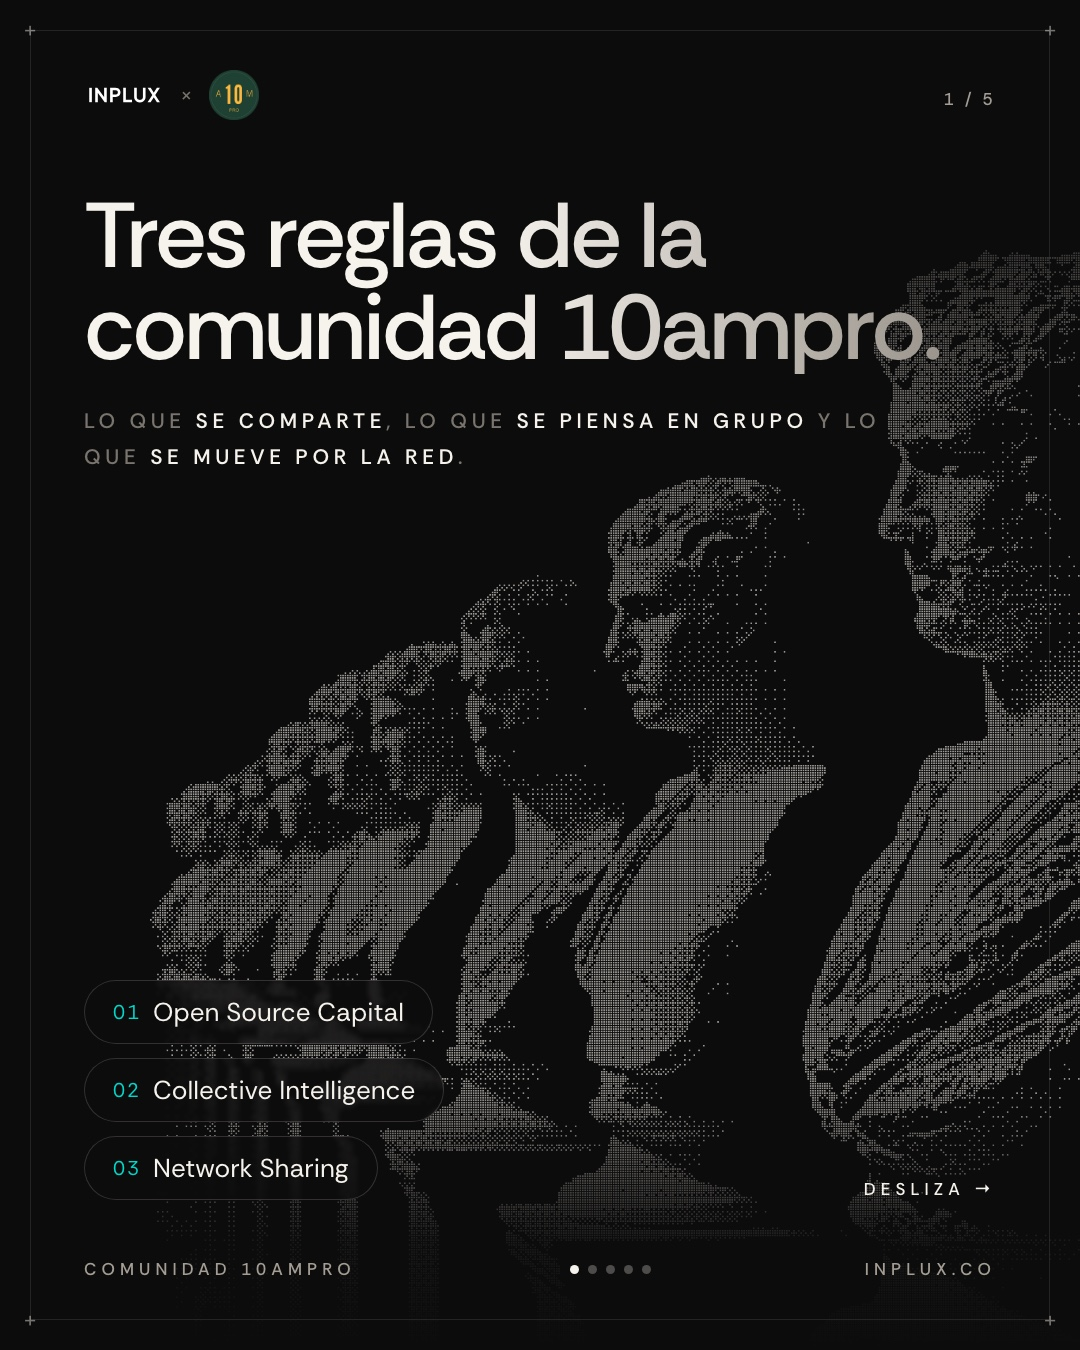
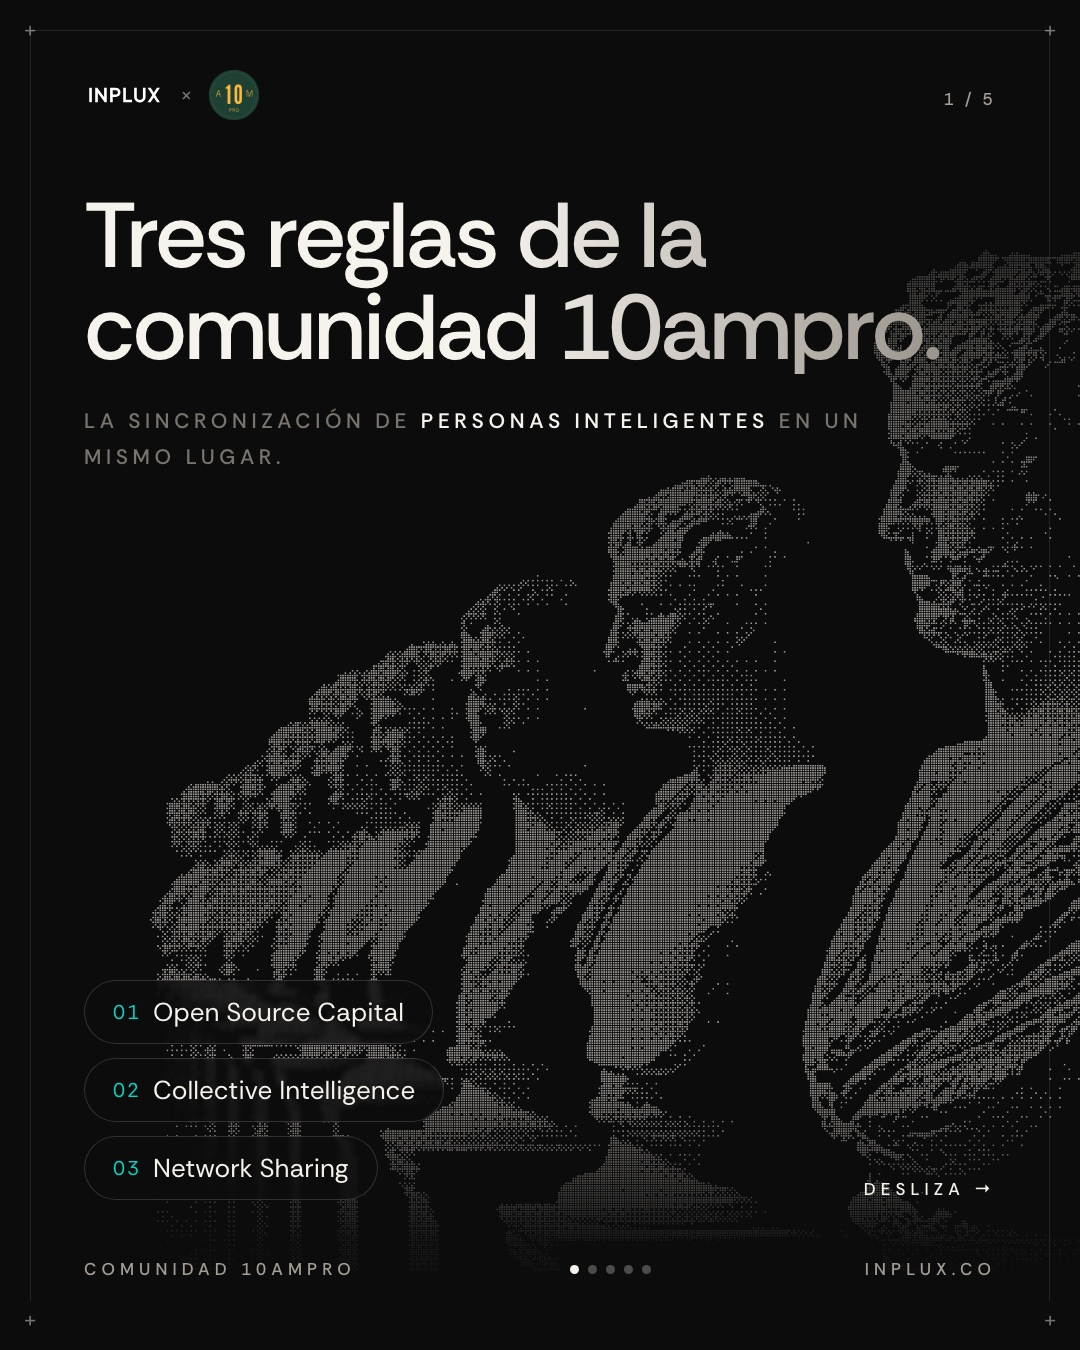
copy(instagram): subtítulo de portada = la sincronización de personas inteligentes en un mismo lugar

Changed region(s): [[0.0917, 0.28, 0.4278, 0.3422], [0.4583, 0.3111, 0.6111, 0.3422], [0.6417, 0.3111, 0.6722, 0.3422]]

diff --git a/brand/instagram/dia-d-reglas/reglas10am_01_portada.html b/brand/instagram/dia-d-reglas/reglas10am_01_portada.html
@@ -25,7 +25,7 @@ body{font-family:"Rethink Sans",sans-serif;color:#f6f2ec;-webkit-font-smoothing:
 .tarjeta{background:#f6f2ec;color:#0c0c0b;border-radius:14px;display:flex;justify-content:space-between;align-items:center;padding:30px 36px}
 </style></head><body><div class="lienzo"><img class="trama" src="trama/galeria.png" style="left:150px;top:250px;width:1250px;opacity:0.6;-webkit-mask-image:none;mask-image:none"><div style="position:absolute;inset:0;background:linear-gradient(180deg,#0c0c0b 0%,rgba(12,12,11,.85) 14%,rgba(12,12,11,.25) 30%,transparent 45%,transparent 80%,rgba(12,12,11,.9) 92%,#0c0c0b 100%)"></div><div style="position:absolute;left:84px;right:84px;top:190px">
   <h1 class="titular" style="font-size:92px">Tres reglas de la<br>comunidad 10ampro.</h1>
-  <p class="sub" style="margin-top:30px;max-width:860px">Lo que <b>se comparte</b>, lo que <b>se piensa en grupo</b> y lo que <b>se mueve por la red</b>.</p>
+  <p class="sub" style="margin-top:30px;max-width:860px">La sincronización de <b>personas inteligentes</b> en un mismo lugar.</p>
 </div>
 <div style="position:absolute;left:84px;bottom:150px;display:flex;flex-direction:column;gap:14px;align-items:flex-start">
   <span class="pill oscura"><span style="color:#00d7ca;font-size:20px;letter-spacing:.1em">01</span>Open Source Capital</span>

diff --git a/brand/instagram/dia-d-reglas/build.py b/brand/instagram/dia-d-reglas/build.py
@@ -111,7 +111,7 @@ def portada():
     mascara = "linear-gradient(180deg,transparent 0%,#000 32%,#000 82%,transparent 100%)"
     return head() + trama("galeria", 150, 250, 1250, opacidad=.6) + encabezado(
         "Tres reglas de la<br>comunidad 10ampro.",
-        "Lo que <b>se comparte</b>, lo que <b>se piensa en grupo</b> y lo que <b>se mueve por la red</b>.", 92) + f"""
+        "La sincronización de <b>personas inteligentes</b> en un mismo lugar.", 92) + f"""
 <div style="position:absolute;left:84px;bottom:150px;display:flex;flex-direction:column;gap:14px;align-items:flex-start">
   <span class="pill oscura"><span style="color:{TEAL};font-size:20px;letter-spacing:.1em">01</span>Open Source Capital</span>
   <span class="pill oscura"><span style="color:{TEAL};font-size:20px;letter-spacing:.1em">02</span>Collective Intelligence</span>
